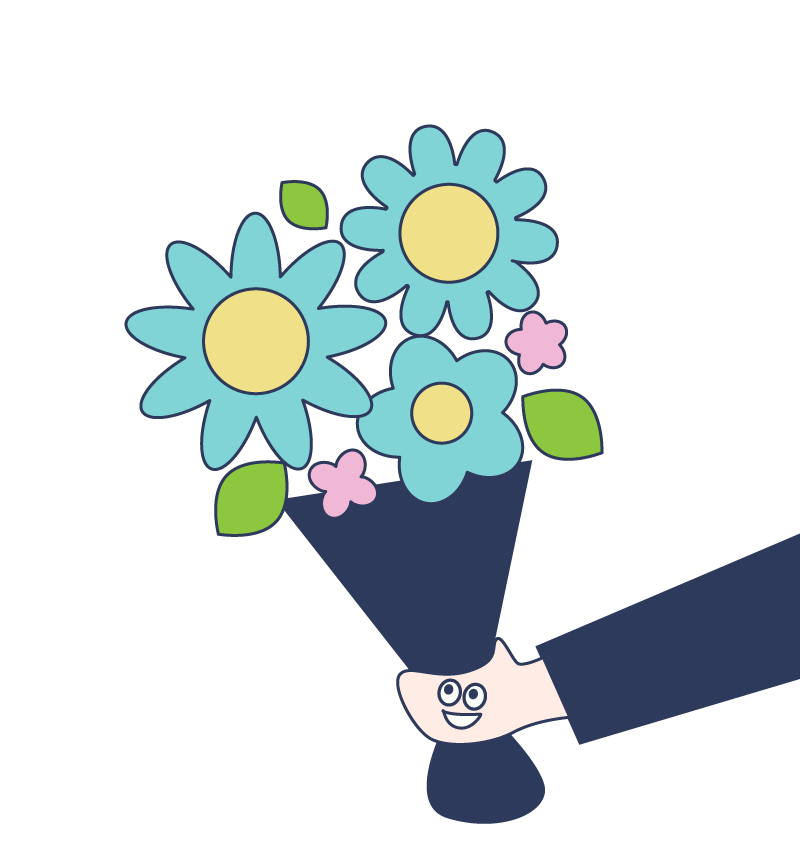
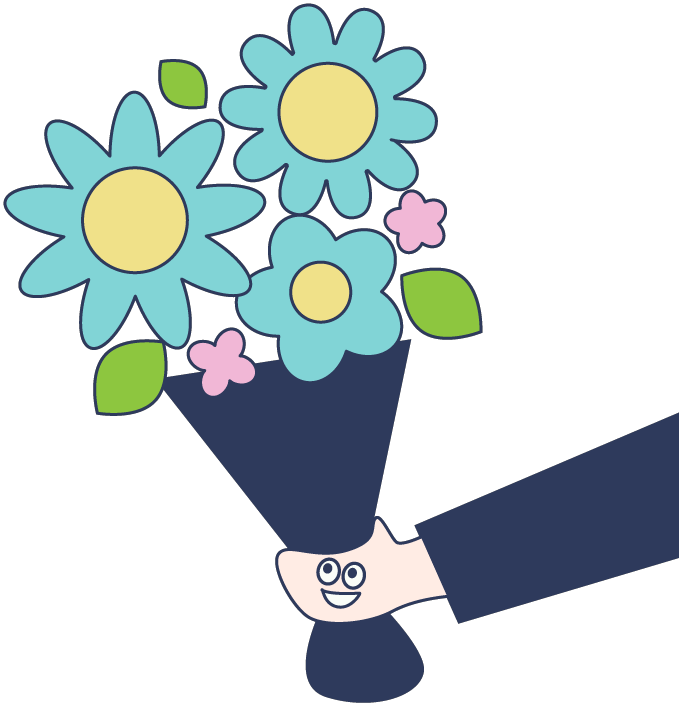
Style: Style the bouquet image

diff --git a/portfolio/contact/css/thankyou.scss b/portfolio/contact/css/thankyou.scss
@@ -3,7 +3,7 @@
     display: flex;
     padding: 15% 2% 10% 10%;
     .left {
-        width: 45%;
+        width: 50%;
         h1 {
             text-transform: uppercase;
             margin-bottom: 90px;
@@ -27,6 +27,8 @@
         }
     }
     .right {
-        width: 55%;
+        width: 37%;
+        margin-left: 8%;
+        transform: rotate(-10deg);
     }
 }

diff --git a/portfolio/contact/css/thankyou.css b/portfolio/contact/css/thankyou.css
@@ -4,7 +4,7 @@
   padding: 15% 2% 10% 10%;
 }
 .thankyou .left {
-  width: 45%;
+  width: 50%;
 }
 .thankyou .left h1 {
   text-transform: uppercase;
@@ -28,5 +28,7 @@
   border-right: 2px solid #80d9d4;
 }
 .thankyou .right {
-  width: 55%;
+  width: 37%;
+  margin-left: 8%;
+  transform: rotate(-10deg);
 }/*# sourceMappingURL=thankyou.css.map */
